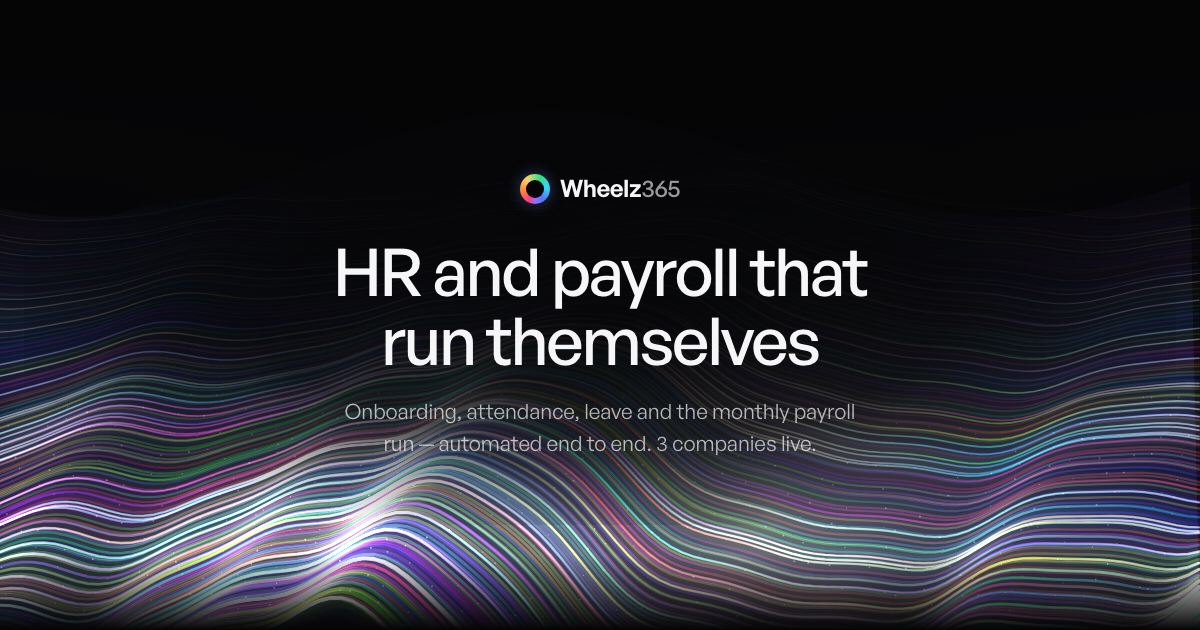
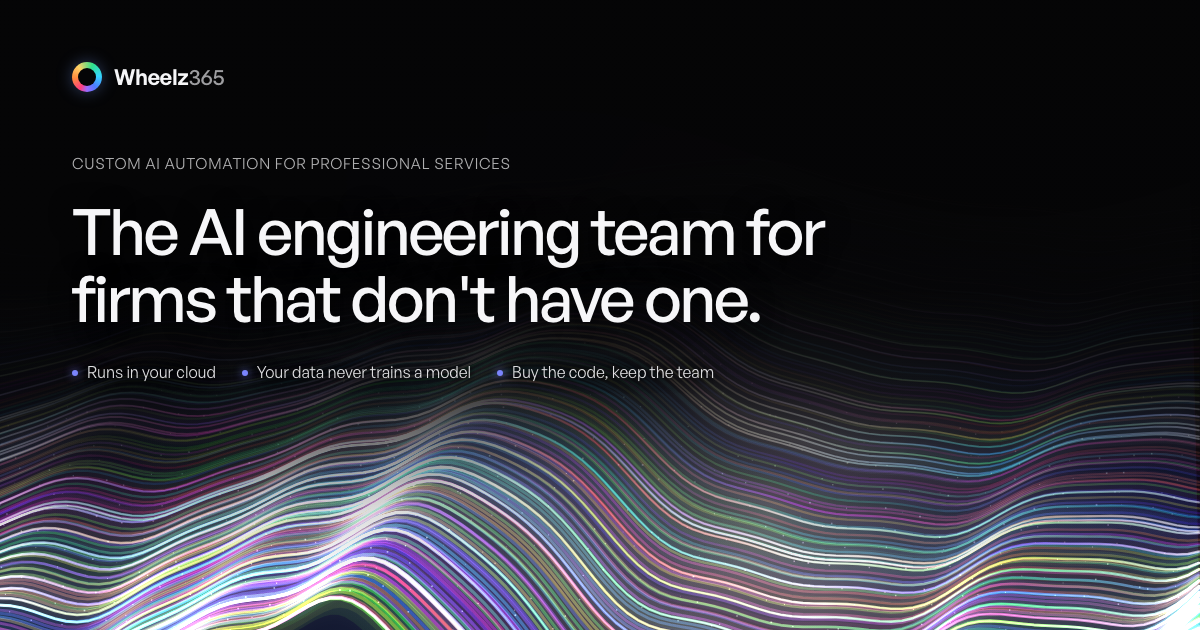
metadata, social card, and README
Per-page title, description, canonical and OG tags. The old title —
"Wheelz365 — HR & payroll automation" — described the wrong business, which is
the single most damaging string on the old site: it is what a partner sees in a
search result and in a pasted link.

assets/og-cover.png regenerated. The previous one was payroll-branded, so
sharing any link would have undone the repositioning at exactly the moment
somebody pasted it into Slack. It's rendered from tools/og-template.html using
the site's own waves.js canvas rather than designed separately, so it stays in
sync with the hero and can be rebuilt from one command.

Two things caught while making it: --force-prefers-reduced-motion is required or
the animating canvas means the screenshot never lands, and the first pass put
the copy over the bright wave crest where none of it was readable.

README rewritten for four pages: the relative-path rule that keeps subpath
hosting working (with the command to verify it), what the mailto form does and
does not do, how to regenerate the social card, and a launch-blockers table.
The DNS, CNAME and HTTPS sections are untouched — they're accurate and they're
the only record of the GoDaddy setup.

diff --git a/tools/og-template.html b/tools/og-template.html
@@ -1,0 +1,104 @@
+<!DOCTYPE html>
+<html lang="en">
+<head>
+<meta charset="utf-8" />
+<title>OG card template — not a site page</title>
+<meta name="robots" content="noindex, nofollow" />
+<!--
+  Source for assets/og-cover.png. Kept in the repo so the social card can be
+  regenerated instead of re-designed. Regenerate with:
+
+    python3 -m http.server 4180        # from the repo root
+    "/Applications/Google Chrome.app/Contents/MacOS/Google Chrome" \
+      --headless --disable-gpu --hide-scrollbars --force-prefers-reduced-motion \
+      --window-size=1200,630 --screenshot=assets/og-cover.png \
+      "http://localhost:4180/tools/og-template.html"
+
+  --force-prefers-reduced-motion matters: it makes waves.js paint one static
+  frame. Without it the canvas animates forever and the screenshot never lands.
+-->
+<link rel="stylesheet" href="https://api.fontshare.com/v2/css?f%5B%5D=general-sans@400,500,600,700&display=swap" />
+<link rel="stylesheet" href="../assets/css/styles.css" />
+<style>
+  /* Renders the social card at exactly 1200x630 using the site's own hero
+     canvas, so the shared link looks like the page it points at.
+     Screenshot with: --window-size=1200,630 */
+  html, body { margin: 0; padding: 0; overflow: hidden; }
+  .og {
+    position: relative;
+    width: 1200px; height: 630px;
+    background: var(--bg);
+    overflow: hidden;
+    isolation: isolate;
+  }
+  .og__canvas { position: absolute; inset: 0; width: 100%; height: 100%; z-index: -2; }
+  /* The waves are brightest across the lower middle, so the copy sits in the
+     top two thirds and the scrim holds that region near-black. Text over the
+     bright crest is unreadable — the same trap as the hero microcopy. */
+  .og__scrim {
+    position: absolute; inset: 0; z-index: -1;
+    background:
+      linear-gradient(to bottom,
+        rgba(5,5,6,0.985) 0%, rgba(5,5,6,0.97) 46%,
+        rgba(5,5,6,0.72) 62%, rgba(5,5,6,0.18) 78%, rgba(5,5,6,0) 92%),
+      radial-gradient(88% 70% at 8% 34%, rgba(5,5,6,0.94) 0%, rgba(5,5,6,0) 72%);
+  }
+  .og__inner {
+    position: relative;
+    height: 100%;
+    padding: 60px 72px 56px;
+    display: flex; flex-direction: column;
+  }
+  .og__brand { display: flex; align-items: center; gap: 12px; }
+  .og__brand .brand__mark { width: 30px; height: 30px; }
+  .og__brand-name { font-size: 1.375rem; font-weight: 600; letter-spacing: -0.02em; }
+  .og__brand-name span { color: var(--fg-muted); font-weight: 500; }
+
+  .og__body { margin-top: 58px; }
+  .og__eyebrow {
+    font-size: 0.9375rem; letter-spacing: 0.05em; text-transform: uppercase;
+    color: rgba(246,246,248,0.7);
+  }
+  .og__title {
+    margin-top: 22px;
+    font-size: 4rem; line-height: 1.04; font-weight: 500; letter-spacing: -0.038em;
+    max-width: 21ch;
+    text-shadow: 0 2px 24px rgba(0,0,0,0.85);
+  }
+  .og__foot {
+    margin-top: 30px;
+    display: flex; gap: 26px; flex-wrap: wrap;
+    font-size: 1rem; color: rgba(246,246,248,0.9);
+    text-shadow: 0 1px 4px rgba(0,0,0,1), 0 2px 14px rgba(0,0,0,0.95);
+  }
+  .og__foot span { display: flex; align-items: center; gap: 9px; }
+  .og__foot i {
+    width: 6px; height: 6px; border-radius: 50%; background: var(--accent-solid);
+    box-shadow: 0 0 9px rgba(124,134,255,0.8);
+  }
+</style>
+</head>
+<body>
+<div class="og">
+  <canvas class="og__canvas" id="wave-canvas"></canvas>
+  <div class="og__scrim"></div>
+  <div class="og__inner">
+    <div class="og__brand">
+      <span class="brand__mark"></span>
+      <span class="og__brand-name">Wheelz<span>365</span></span>
+    </div>
+
+    <div class="og__body">
+      <p class="og__eyebrow">Custom AI automation for professional services</p>
+      <h1 class="og__title">The AI engineering team for firms that don't have one.</h1>
+      <p class="og__foot">
+        <span><i></i>Runs in your cloud</span>
+        <span><i></i>Your data never trains a model</span>
+        <span><i></i>Buy the code, keep the team</span>
+      </p>
+    </div>
+  </div>
+</div>
+<script src="../assets/js/waves.js"></script>
+</body>
+</html>

diff --git a/README.md b/README.md
@@ -1,17 +1,23 @@
-# Wheelz365 — landing page
+# Wheelz365 — marketing site
 
-Static, single-page marketing site for **Wheelz365**, an HR & payroll automation product.
+Static marketing site for **Wheelz365**, which designs and builds custom AI automation
+for professional-services firms — and sells the source code to clients who want it.
+
 Plain HTML/CSS/JS with no build step and no dependencies, so it can be served straight
 from GitHub Pages.
 
 ```
-index.html            the whole page
-assets/css/styles.css all styling
-assets/js/waves.js    the iridescent hero backdrop (canvas, no images)
-assets/js/main.js     nav, tabs, accordion, stats carousel, reveals, form
-assets/favicon.svg    tab icon
-assets/og-cover.png   social share image
-.nojekyll             tells GitHub Pages to serve the files as-is
+index.html                  home — 14 sections, the whole positioning
+what-we-build/index.html    six automation archetypes + featured HR & hiring use case
+security/index.html         data boundary, audit trail, exit rights (the forwardable one)
+audit/index.html            the conversion page and its form
+assets/css/styles.css       all styling, shared by every page
+assets/js/waves.js          the iridescent hero backdrop (canvas, no images)
+assets/js/main.js           nav, tabs, accordion, reveals, flow preview, audit form
+assets/favicon.svg          tab icon
+assets/og-cover.png         social share image
+tools/og-template.html      source for og-cover.png — see "Regenerating the OG image"
+.nojekyll                   tells GitHub Pages to serve the files as-is
 ```
 
 ## Run it locally
@@ -21,7 +27,31 @@ python3 -m http.server 4173
 # then open http://localhost:4173
 ```
 
-Opening `index.html` directly with `file://` also works.
+Use a server rather than opening `index.html` over `file://` — the subpages live in
+directories and the relative paths between them need real URL resolution.
+
+## How the pages link to each other
+
+Every asset and page path is **relative**, never root-absolute (`/assets/…`), so the site
+also works unchanged from `mab-007.github.io/hr-automation/`. That constraint is easy to
+break by accident:
+
+| From | Stylesheet | Home | A sibling page |
+| --- | --- | --- | --- |
+| `index.html` | `assets/css/styles.css` | `#hero` | `security/` |
+| `security/index.html` | `../assets/css/styles.css` | `../` | `../audit/` |
+
+Always link to a subpage **with the trailing slash** (`security/`, not `security`).
+Without it, GitHub Pages redirects and every relative path on the destination page
+resolves one level too high.
+
+To check you haven't broken this, serve the *parent* directory and load the site through
+the subpath:
+
+```bash
+cd .. && python3 -m http.server 4174
+# open http://localhost:4174/hr-automation/ and click through all four pages
+```
 
 ## Hosting
 
@@ -68,32 +98,64 @@ HTTPS is handled by GitHub via Let's Encrypt: the certificate is issued automati
 Settings → Pages. Do not tick it before the certificate exists — the option is disabled
 until then.
 
-Every asset path is relative, so the site also works unchanged from the
-`mab-007.github.io/hr-automation/` sub-path.
-
 ## Things to change before you go live
 
 | What | Where |
 | --- | --- |
-| The four proof numbers (3 / 6× / 0 / 1 day) and the client one-liners | `index.html`, the `.stats` block — these are placeholders, replace with your real client outcomes |
-| `hello@wheelz365.com` | `index.html` (footer + contact links) and `CONTACT_EMAIL` in `assets/js/main.js` |
-| LinkedIn / social links | `index.html`, `.footer__social` |
-| `og:image` URL | `index.html` — make it absolute once you know the live URL |
+| Registered entity name + city | All four pages, `footer__base` — marked `TODO`. Enterprise buyers look for it. Add the real one; don't invent a placeholder. |
+| LinkedIn URL | All four pages, `.footer__social` — currently email only, marked `TODO` |
+| The McKinsey citation | `index.html`, the `#problem` footnote — the 23% figure is attributed but unlinked. A page arguing against unverifiable claims should not contain one. |
+| Client logos | `index.html`, the `.cap-strip` — swap the capability statements for greyscale logos **only** with written permission |
 
-## Where the early-access form goes
+## Where the audit form goes
 
-GitHub Pages is static and cannot receive a form POST. Out of the box the form opens the
-visitor's mail client addressed to `CONTACT_EMAIL`.
+GitHub Pages is static and cannot receive a form POST, so submitting the audit form opens
+the visitor's own mail client with a labelled message addressed to `CONTACT_EMAIL`
+(top of `assets/js/main.js`). Nothing is sent until they send it.
 
-To collect submissions properly, set `FORM_ENDPOINT` at the top of `assets/js/main.js` to a
-form-handler URL (Formspree, Getform, Basin, or a Google Apps Script web app). The form
-POSTs `FormData` and expects a 2xx response; the mail fallback is used only while the
-endpoint is empty.
+Consequences worth knowing:
+
+- Each free-text answer is capped when the `mailto:` URL is built, because some clients
+  truncate long links silently. When that happens the body says so.
+- A visible fallback address sits under the button for anyone with no mail client.
+- There is no honeypot and no rate limiting. Both are server-side concepts and would be
+  pure theatre in front of a `mailto:` link.
+- A free email provider produces a **warning, not a block** — plenty of real small firms
+  run on Gmail, and there is no server to enforce a rule anyway.
+
+If you later want submissions to land in a sheet or CRM, the change is to POST the
+`FormData` to a form-handler endpoint (Formspree, Basin, Getform, or a Google Apps Script
+web app) in the submit handler, keeping the mailto as the failure path.
+
+## Regenerating the OG image
+
+`assets/og-cover.png` is rendered from `tools/og-template.html` rather than designed by
+hand, so it stays in sync with the hero:
+
+```bash
+python3 -m http.server 4180
+"/Applications/Google Chrome.app/Contents/MacOS/Google Chrome" \
+  --headless --disable-gpu --hide-scrollbars --force-prefers-reduced-motion \
+  --window-size=1200,630 --screenshot=assets/og-cover.png \
+  "http://localhost:4180/tools/og-template.html"
+```
+
+`--force-prefers-reduced-motion` is not optional: it makes `waves.js` paint a single
+static frame. Without it the canvas animates forever and the screenshot never lands.
 
 ## Notes
 
 - The hero background is drawn on a `<canvas>` — no image files. It pauses when scrolled
   out of view or when the tab is hidden, and renders a single static frame for visitors
-  who have "reduce motion" turned on.
-- Typeface is General Sans, loaded from Fontshare, with a system font fallback.
-- `?tab=connect|automate|approve|pay` deep-links a step of the "How it works" section.
+  who have "reduce motion" turned on. It loads on the **home page only**; the subpages use
+  a static CSS gradient header so their LCP stays cheap.
+- Typeface is General Sans, loaded from Fontshare, with a system font fallback. Mono type
+  (the audit-log sample on `/security/`) uses the system mono stack — no second web font.
+- `?tab=audit|design|build|run` deep-links a phase of the "How we work" section. The tabs
+  do not auto-advance; a panel that rotates away mid-sentence is worse than no motion.
+- Old anchor links from the previous single-page site (`#early-access`, `#how`, `#why`,
+  `#integrations`, `#compare`, `#proof`, `#team`) are remapped to their new equivalents on
+  load by `main.js`. Static hosting can't issue a 301, so that's the substitute.
+- Several CSS class names (`.payrun*`, `.approve*`, `.src--books`) are left over from the
+  earlier payroll site. They're reused generically now and are invisible to visitors —
+  renaming them would touch a few hundred lines of working CSS for no user-visible gain.
